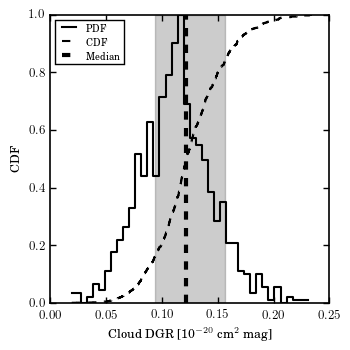
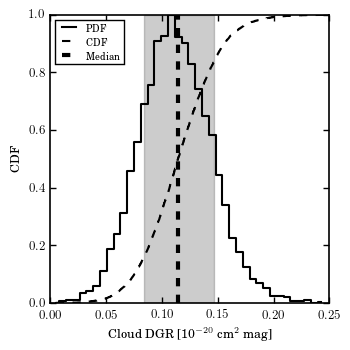
fixed mistake

diff --git a/_posts/2015-08-31-research-bootstrap-results.md b/_posts/2015-08-31-research-bootstrap-results.md
@@ -62,4 +62,13 @@ Cumulative distribution function as the dashed line, the probability density
 function as the solid line, the median as the thick vertical dashed line, and
 the 68% confidence interval of the bootstrapped DGRs of each cloud.
 
+## Updated DGR values
+
+I had made a mistake in analyzing the error about the median yesterday. Below
+is the $A_V$ vs N(HI) plot with the corrected DGRs.
+
+<img
+src="/images/2015-08-31/multicloud_av_vs_nhi.png"
+    style="width: 70%"/>
+
 
